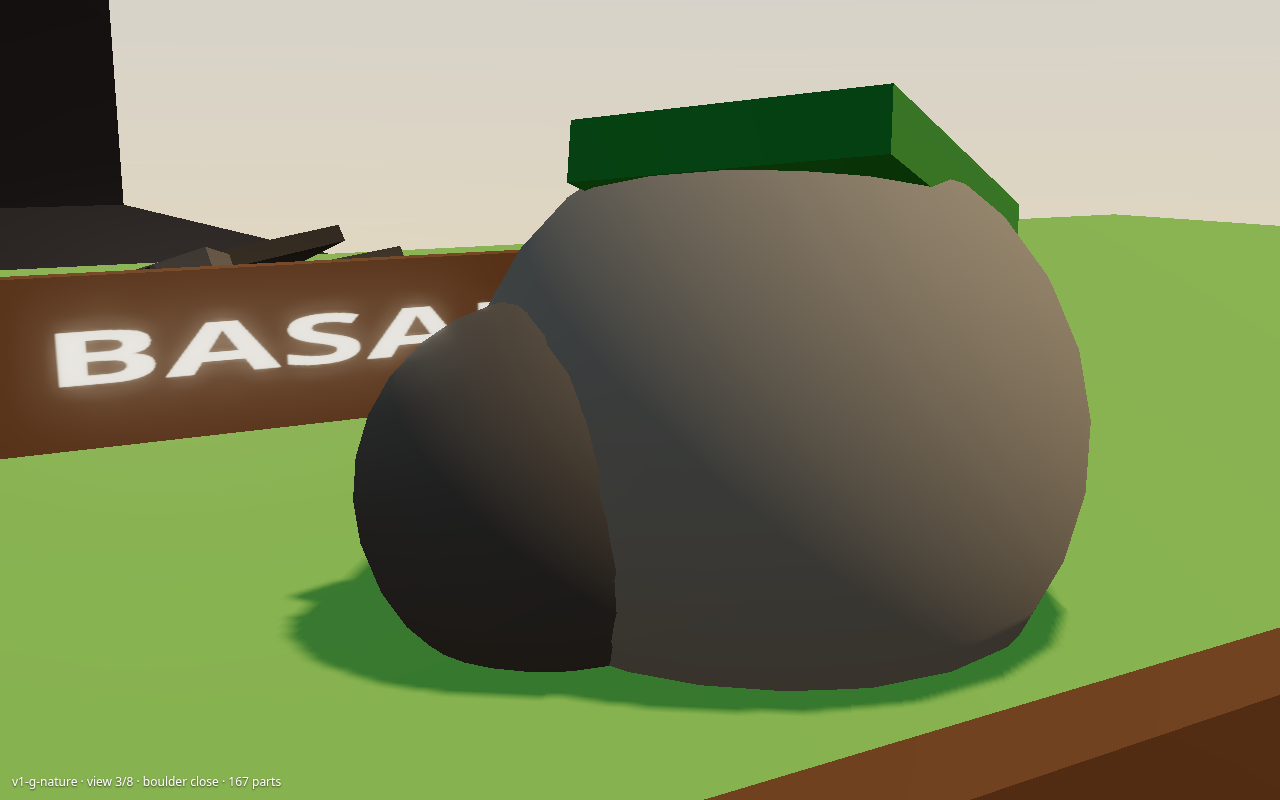
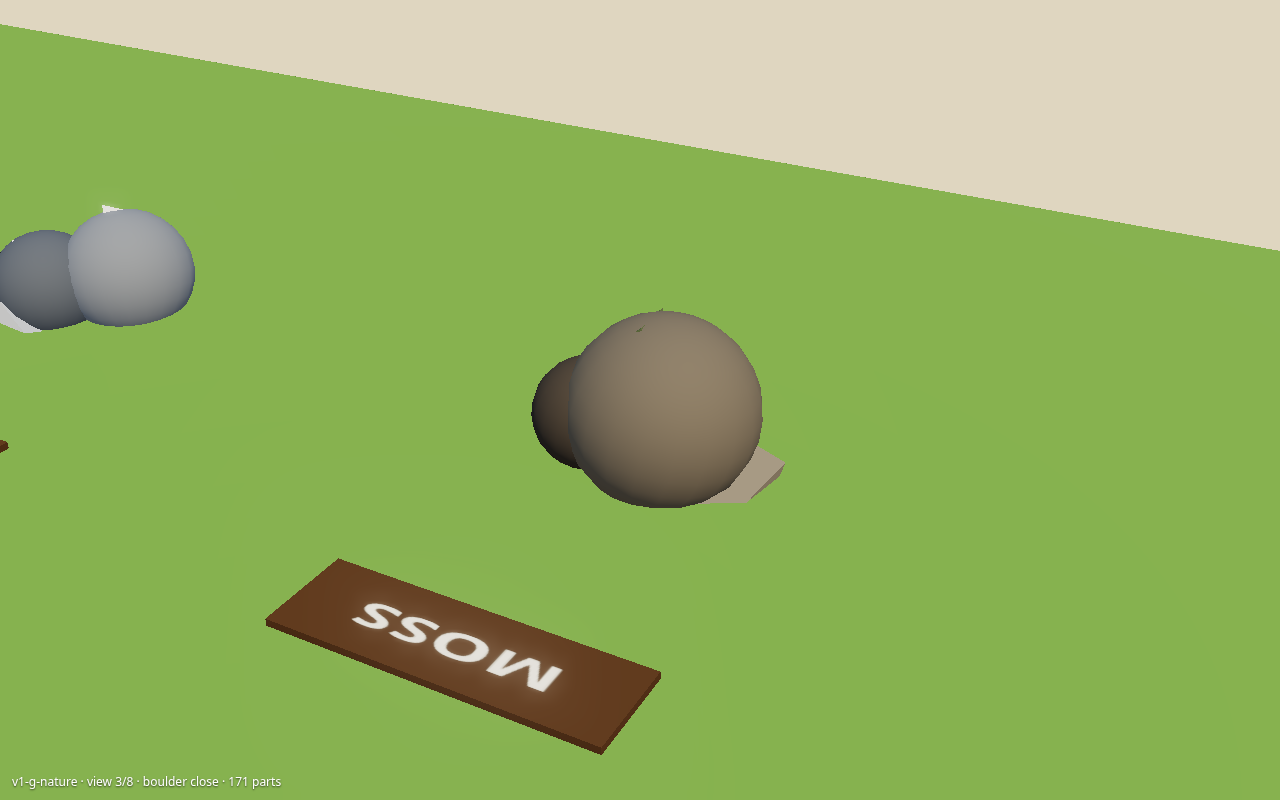
phase-2: refresh the nature and ore preview sheets
Names sit on ground plaques, four rocks to a row. The cave shot keeps
night lighting and a closer fill so the veins and heartstone read, and
the meadow is an eye-height scatter.

diff --git a/STATUS.md b/STATUS.md
@@ -15,7 +15,7 @@ First renders are in `previews/v1-g/` so Connor can mark them up before this mer
 
 The client now places those pieces. `AmbientLife` reads zones from `NatureData` (`ScatterZones` when Lane B has merged it, otherwise `WorldPlan`, plus `UndergroundData` rooms). Cave dressing shares `MaxDecor`, stays at or under 120 parts per cave, and uses at most 6 unshadowed lights (2 on low, 4 on medium, 6 on high). Surface nature parts near the camera stay within 560 / 320 / 148. Critters also stop at 320 / 240 / 120 parts, and still at `MaxCritters`. Walkers stay off a road's edge by more than 4 studs. Filler trees come from `TreeArt.FillerTree` (same part counts as before). Rain is a thin streak (`Size` 0.05, `Squash` 9, slanted) plus ground splashes, both inside the old 560 budget: about 198 live particles on high, 139 on medium, 99 on low. A raycast plus cave, tunnel and grotto zones fades rain and the rain sound under shelter. The wet-air haze is `RainFog`: WeatherController only publishes a 0–1 wetness, and LightingController adds it once to its own fog target (`+0.08` density, `+1.1` haze at full storm). Steady rain no longer stacks fog until the sky goes white. No cash change and no tree-volume change. Palm section trees stay at 3 coconuts.
 
-Rocks are six families (`Boulder`, `CrackedBoulder`, `Spire`, `Slab`, `PebbleCluster`, `Outcrop`), three sizes, each tilted 8–20° and sunk 20–30%. No block is taller than 1.5× its width (a spire is stacked offset courses). Biome palettes: meadow moss, snow cap, shore sandstone, volcano basalt, gloam blue-grey, cave wet stone. `NatureArt.OreRock(shape, size, oreColor, oreMaterial, glow)` is the host plus 2 or 3 thin face wedges, 8 parts or fewer, tagged `OreRockArt`, with `OreId` left `""` for Lane M. Neon and a shadowless PointLight are added only when `glow` is true. Ore rocks are not scattered yet.
+Rocks are six families (`Boulder`, `CrackedBoulder`, `Spire`, `Slab`, `PebbleCluster`, `Outcrop`), three sizes, each tilted 8–20° and sunk 20–30%. No block is taller than 1.5× its width (a spire is stacked offset courses). A built rock is 7 parts, 8 for a pebble cluster. Meadow moss and the snow cap are two thin wedges on the crown (Grass `#667552`, or Snow), at most 0.3 studs proud. Other biomes use the same patches in their own stone. `NatureArt.OreRock(shape, size, oreColor, oreMaterial, glow)` is a contrasting host plus 2 vein wedges, each about a fifth of the face it sits on, 8 parts or fewer, tagged `OreRockArt`, with `OreId` left `""` for Lane M. A dark ore (coal) sits on light grey; a bright ore sits on dark stone. Neon and a shadowless PointLight are added only when `glow` is true: a pale vein (opal) gets a dim light, a saturated one (heartstone) shines. Ore rocks are not scattered yet.
 
 **Awaiting Connor:** palm section trees stay at 3 coconuts, because that count is a shape field and changing it would move the economy volumes. Say if any rock, plant, critter or rain streak below should change before it is placed.
 
